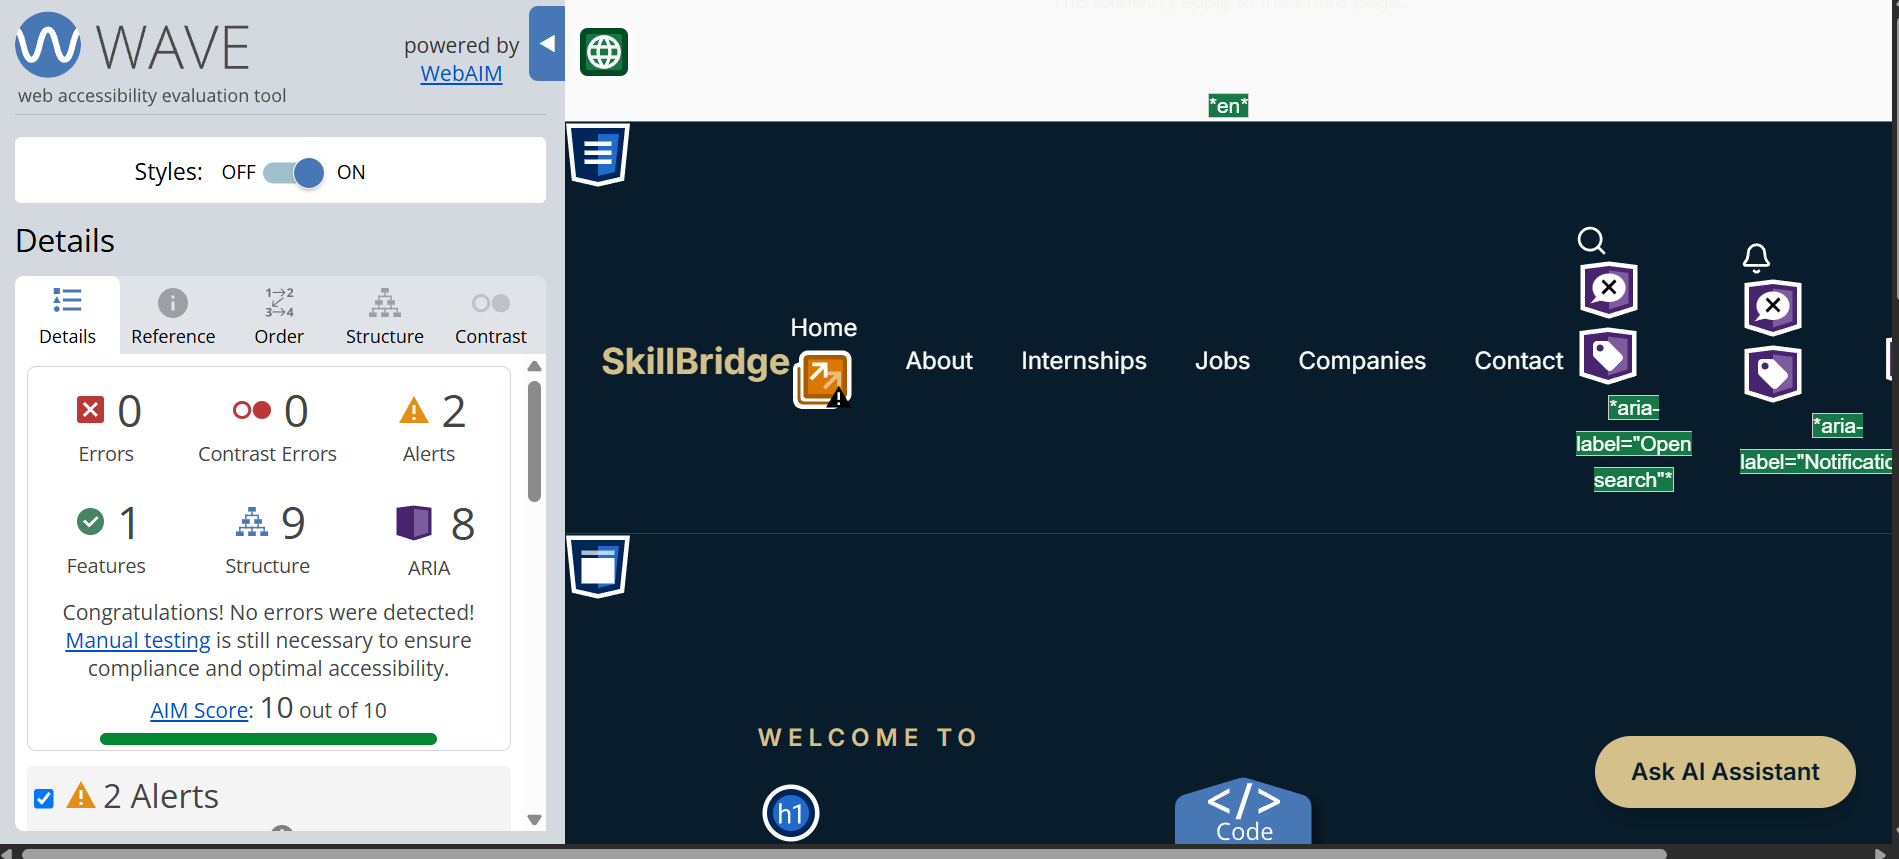
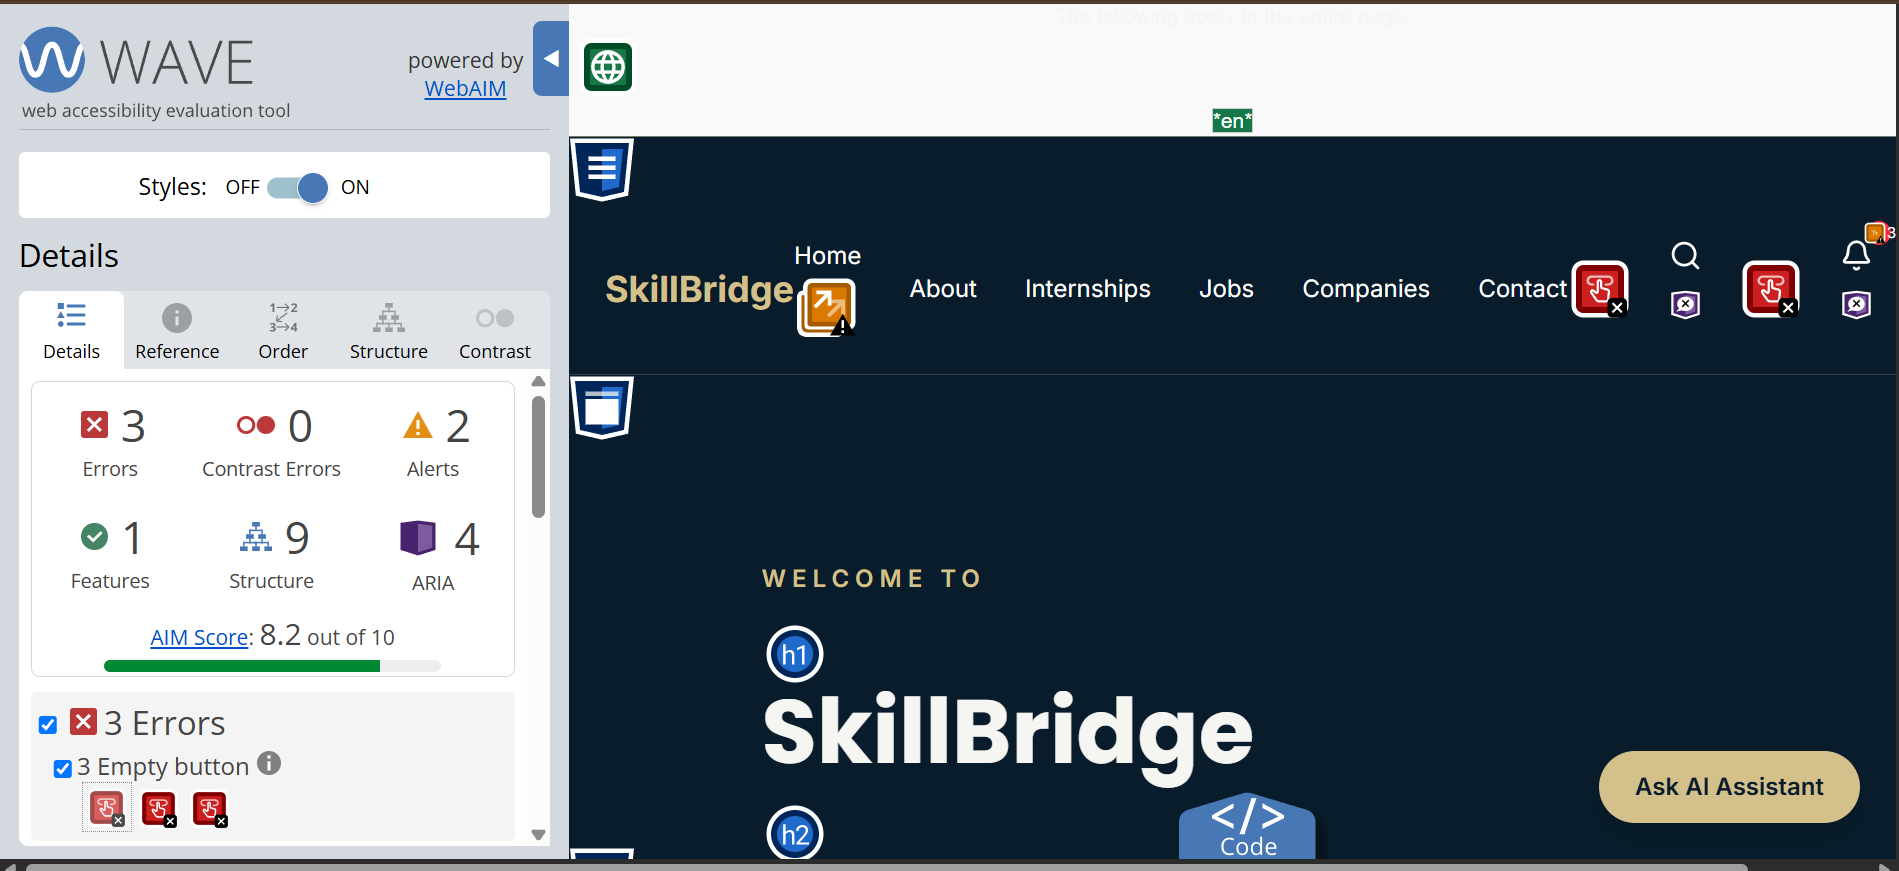
wave after accessibility check

diff --git a/app/components/navbar.tsx b/app/components/navbar.tsx
@@ -90,7 +90,7 @@ export default function Navbar() {
                     <div className="flex items-center gap-4">
                         {/* Mobile Menu */}
                         <button
-                            //aria-label={showMenu ? "Close navigation menu" : "Open navigation menu"}
+                            ia-label={showMenu ? "Close navigation menu" : "Open navigation menu"}
                             onClick={() => setShowMenu(!showMenu)}
                             className="md:hidden p-2 rounded-full hover:bg-[#10293D] transition"
                         >
@@ -108,7 +108,7 @@ export default function Navbar() {
                         </button>
                         {/* Search */}
                         <button
-                            //aria-label="Open search"
+                            aria-label="Open search"
                             onClick={() => setShowSearch(!showSearch)}
                             className="p-2 rounded-full hover:bg-[#10293D] transition"
                         >
@@ -120,7 +120,7 @@ export default function Navbar() {
 
                         {/* Bell */}
                         <button
-                            //aria-label="Notifications"
+                            aria-label="Notifications"
                             className="relative p-2 rounded-full hover:bg-[#10293D] transition"
                         >
 
@@ -137,7 +137,7 @@ export default function Navbar() {
 
                         {/* Profile */}
                         <button
-                            //aria-label="Open login"
+                            aria-label="Open login"
                             onClick={() => setShowLogin(true)}
                             className="w-10 h-10 rounded-full bg-[#D4C08A] flex items-center justify-center hover:scale-105 transition"
                         >
@@ -268,7 +268,7 @@ export default function Navbar() {
                                 )}
 
                                 <button
-                                    //aria-label="Close search"
+                                    aria-label="Close search"
                                     onClick={() => setShowSearch(false)}
                                     className="absolute right-4 top-1/2 -translate-y-1/2"
                                 >
@@ -295,7 +295,7 @@ export default function Navbar() {
                     <div className="bg-[#10293D] rounded-3xl p-8 w-[420px] relative border border-[#D4C08A]/20">
 
                         <button
-                            // aria-label="Close login dialog"
+                            aria-label="Close login dialog"
                             onClick={() => setShowLogin(false)}
                             className="absolute right-5 top-5"
                         >
@@ -357,7 +357,7 @@ export default function Navbar() {
                     <div className="bg-[#10293D] rounded-3xl p-8 w-[420px] relative border border-[#D4C08A]/20">
 
                         <button
-                            // aria-label="Close registration dialog"
+                            aria-label="Close registration dialog"
                             onClick={() => setShowRegister(false)}
                             className="absolute right-5 top-5"
                         >
